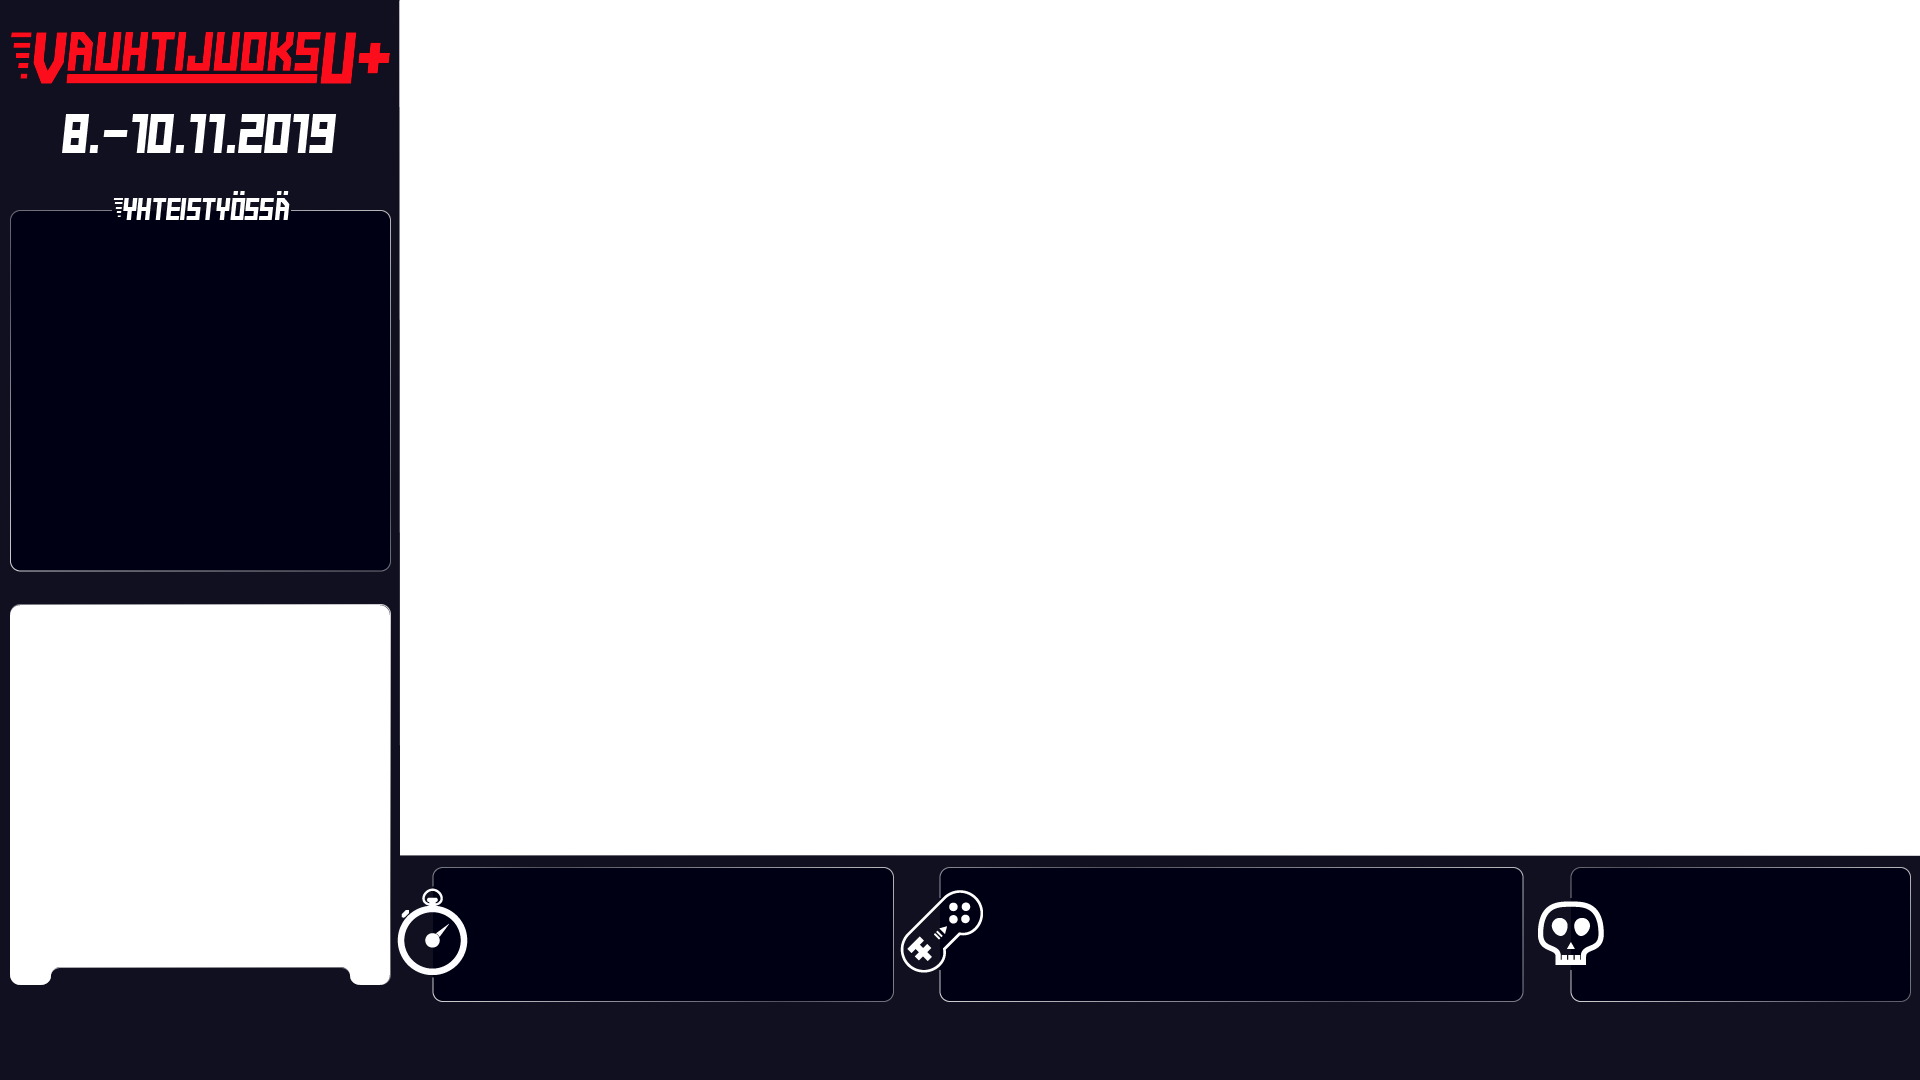
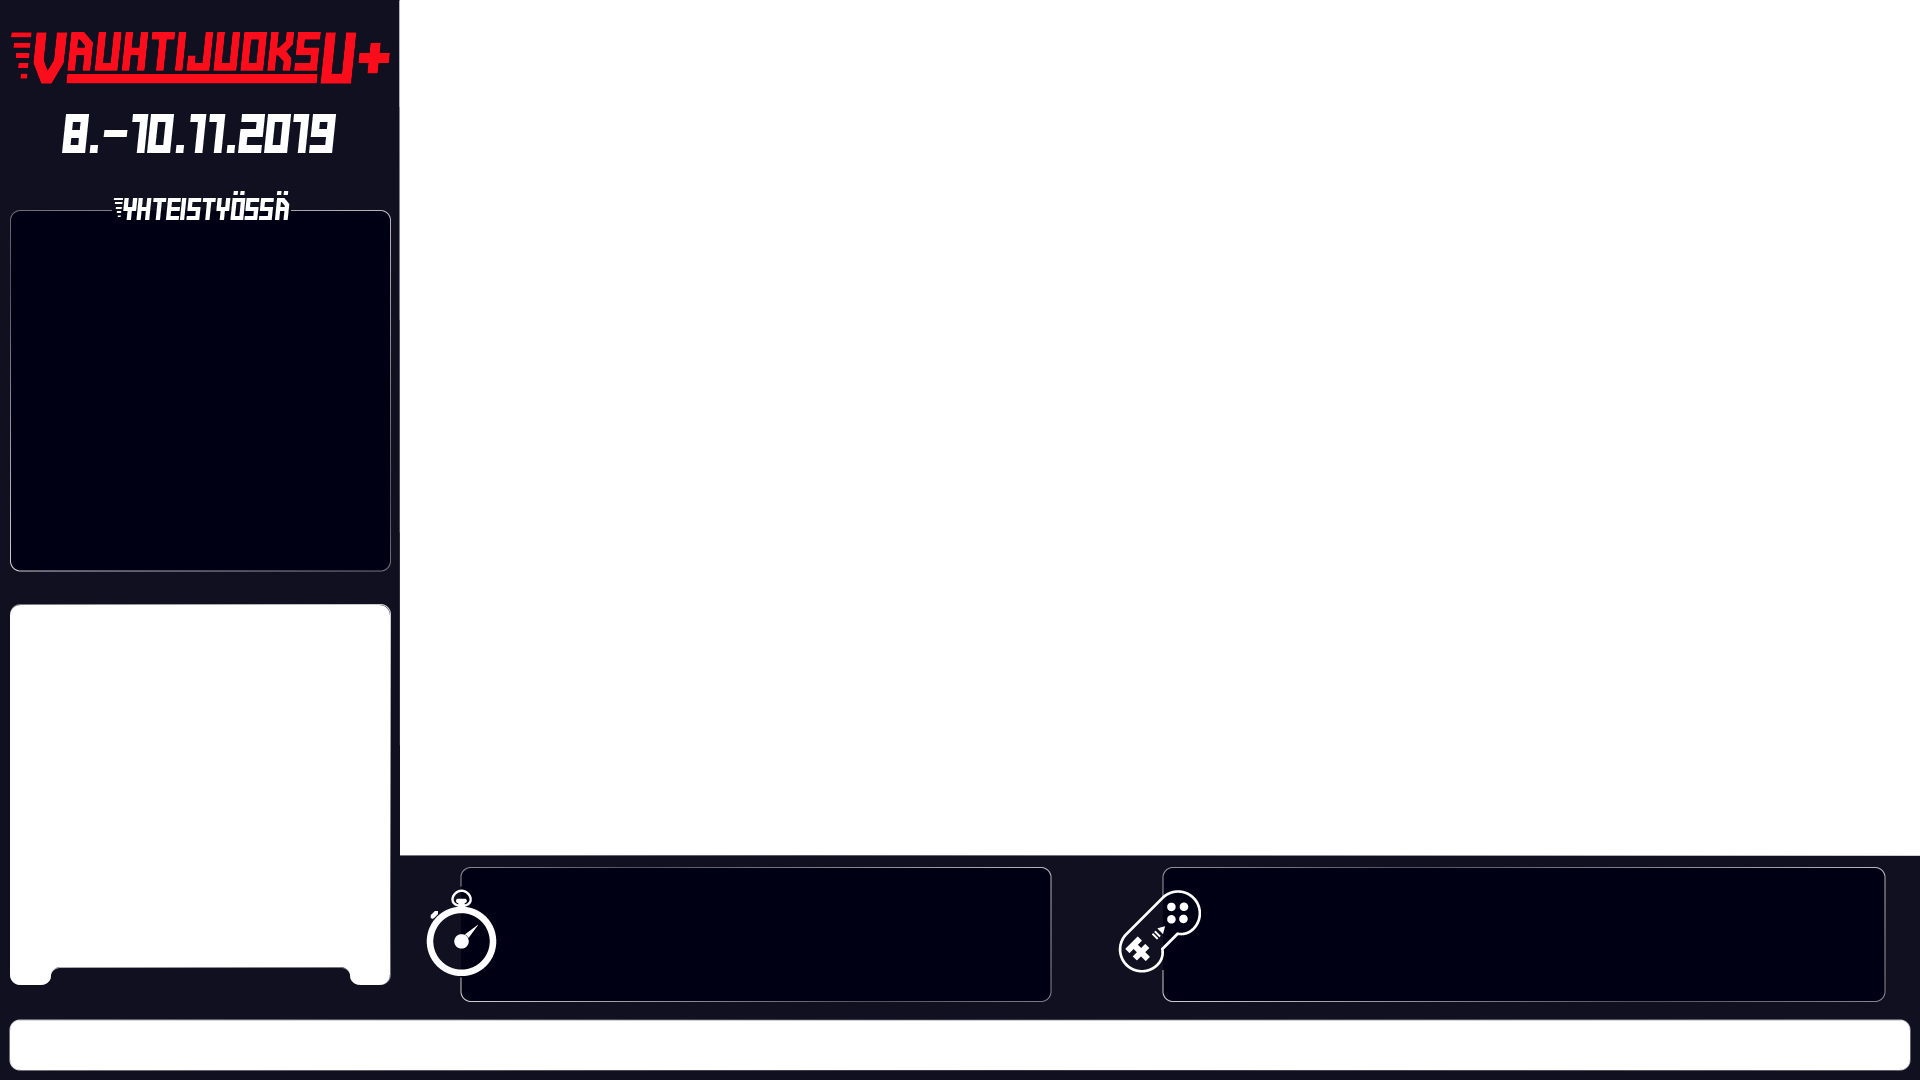
Separate death counter layouts and add space for donation bar

Changed region(s): [[0.0, 0.825, 1.0, 1.0], [0.5625, 0.825, 0.625, 0.8861]]

diff --git a/layouts/four-three-deaths.html b/layouts/four-three-deaths.html
@@ -2,6 +2,7 @@
 <head>
   <link rel="stylesheet" type="text/css" href="css/base.css">
   <link rel="stylesheet" type="text/css" href="css/four-three.css">
+  <link rel="stylesheet" type="text/css" href="css/four-three-deaths.css">
   <script src="js/data.js"></script>
   <script src="js/carousel.js"></script>
 </head>
@@ -21,6 +22,9 @@
               </div>
               <div id="estimate">arvio: </div>
             </div>
+      </div>
+      <div id="counter">
+        <div id="deathcount">0</div>
       </div>
       <div id="player">Pellaaja</div>
     </div>

diff --git a/layouts/sixteen-nine-deaths.html b/layouts/sixteen-nine-deaths.html
@@ -2,6 +2,7 @@
 <head>
   <link rel="stylesheet" type="text/css" href="css/base.css">
   <link rel="stylesheet" type="text/css" href="css/sixteen-nine.css">
+  <link rel="stylesheet" type="text/css" href="css/sixteen-nine-deaths.css">
   <script src="js/data.js"></script>
   <script src="js/carousel.js"></script>
 </head>
@@ -25,6 +26,9 @@
           </div>
           <div id="estimate">arvio: </div>
         </div>
+      </div>
+      <div id="counter">
+        <div id="deathcount">0</div>
       </div>
     </div>
     <div class="donations"></div>

diff --git a/layouts/css/sixteen-nine.css b/layouts/css/sixteen-nine.css
@@ -32,10 +32,10 @@
 
 /* Info box */
 #info {
-    left: 590px;
+    left: 800px;
     top: 0;
     bottom: 18px;
-    width: 530px;
+    width: 680px;
 
     display: flex;
     flex-direction: column;
@@ -58,21 +58,8 @@
     font-size: 22pt;
 }
 
-#counter {
-    left: 1200;
-    top: 0;
-    right: 14px;
-    bottom: 18px;
-}
 
 .screen {
     width: 1520px;
     height: 855px;
-}
-
-.donations {
-    bottom: 0;
-    left: 0;
-    right: 0;
-    height: 60px;
 }

diff --git a/layouts/css/sixteen-nine-deaths.css b/layouts/css/sixteen-nine-deaths.css
@@ -1,0 +1,18 @@
+#canvas {
+    background-image: url('../img/layout169deathcounter.png');
+}
+
+/* Info box */
+#info {
+    left: 590px;
+    top: 0;
+    bottom: 18px;
+    width: 530px;
+}
+
+#counter {
+    left: 1200;
+    top: 0;
+    right: 14px;
+    bottom: 18px;
+}

diff --git a/layouts/css/four-three-deaths.css b/layouts/css/four-three-deaths.css
@@ -1,0 +1,13 @@
+#canvas {
+    background-image: url('../img/layout43deathcounter.png');
+}
+
+
+#counter {
+    left: 44px;
+    top: 580px;
+    width: 110px;
+    bottom: 320px;
+
+    font-size: 40pt;
+}

diff --git a/layouts/css/base.css b/layouts/css/base.css
@@ -75,3 +75,10 @@ div {
     justify-content: center;
     padding-bottom: 10px;
 }
+
+.donations {
+    bottom: 0;
+    left: 0;
+    right: 0;
+    height: 60px;
+}
